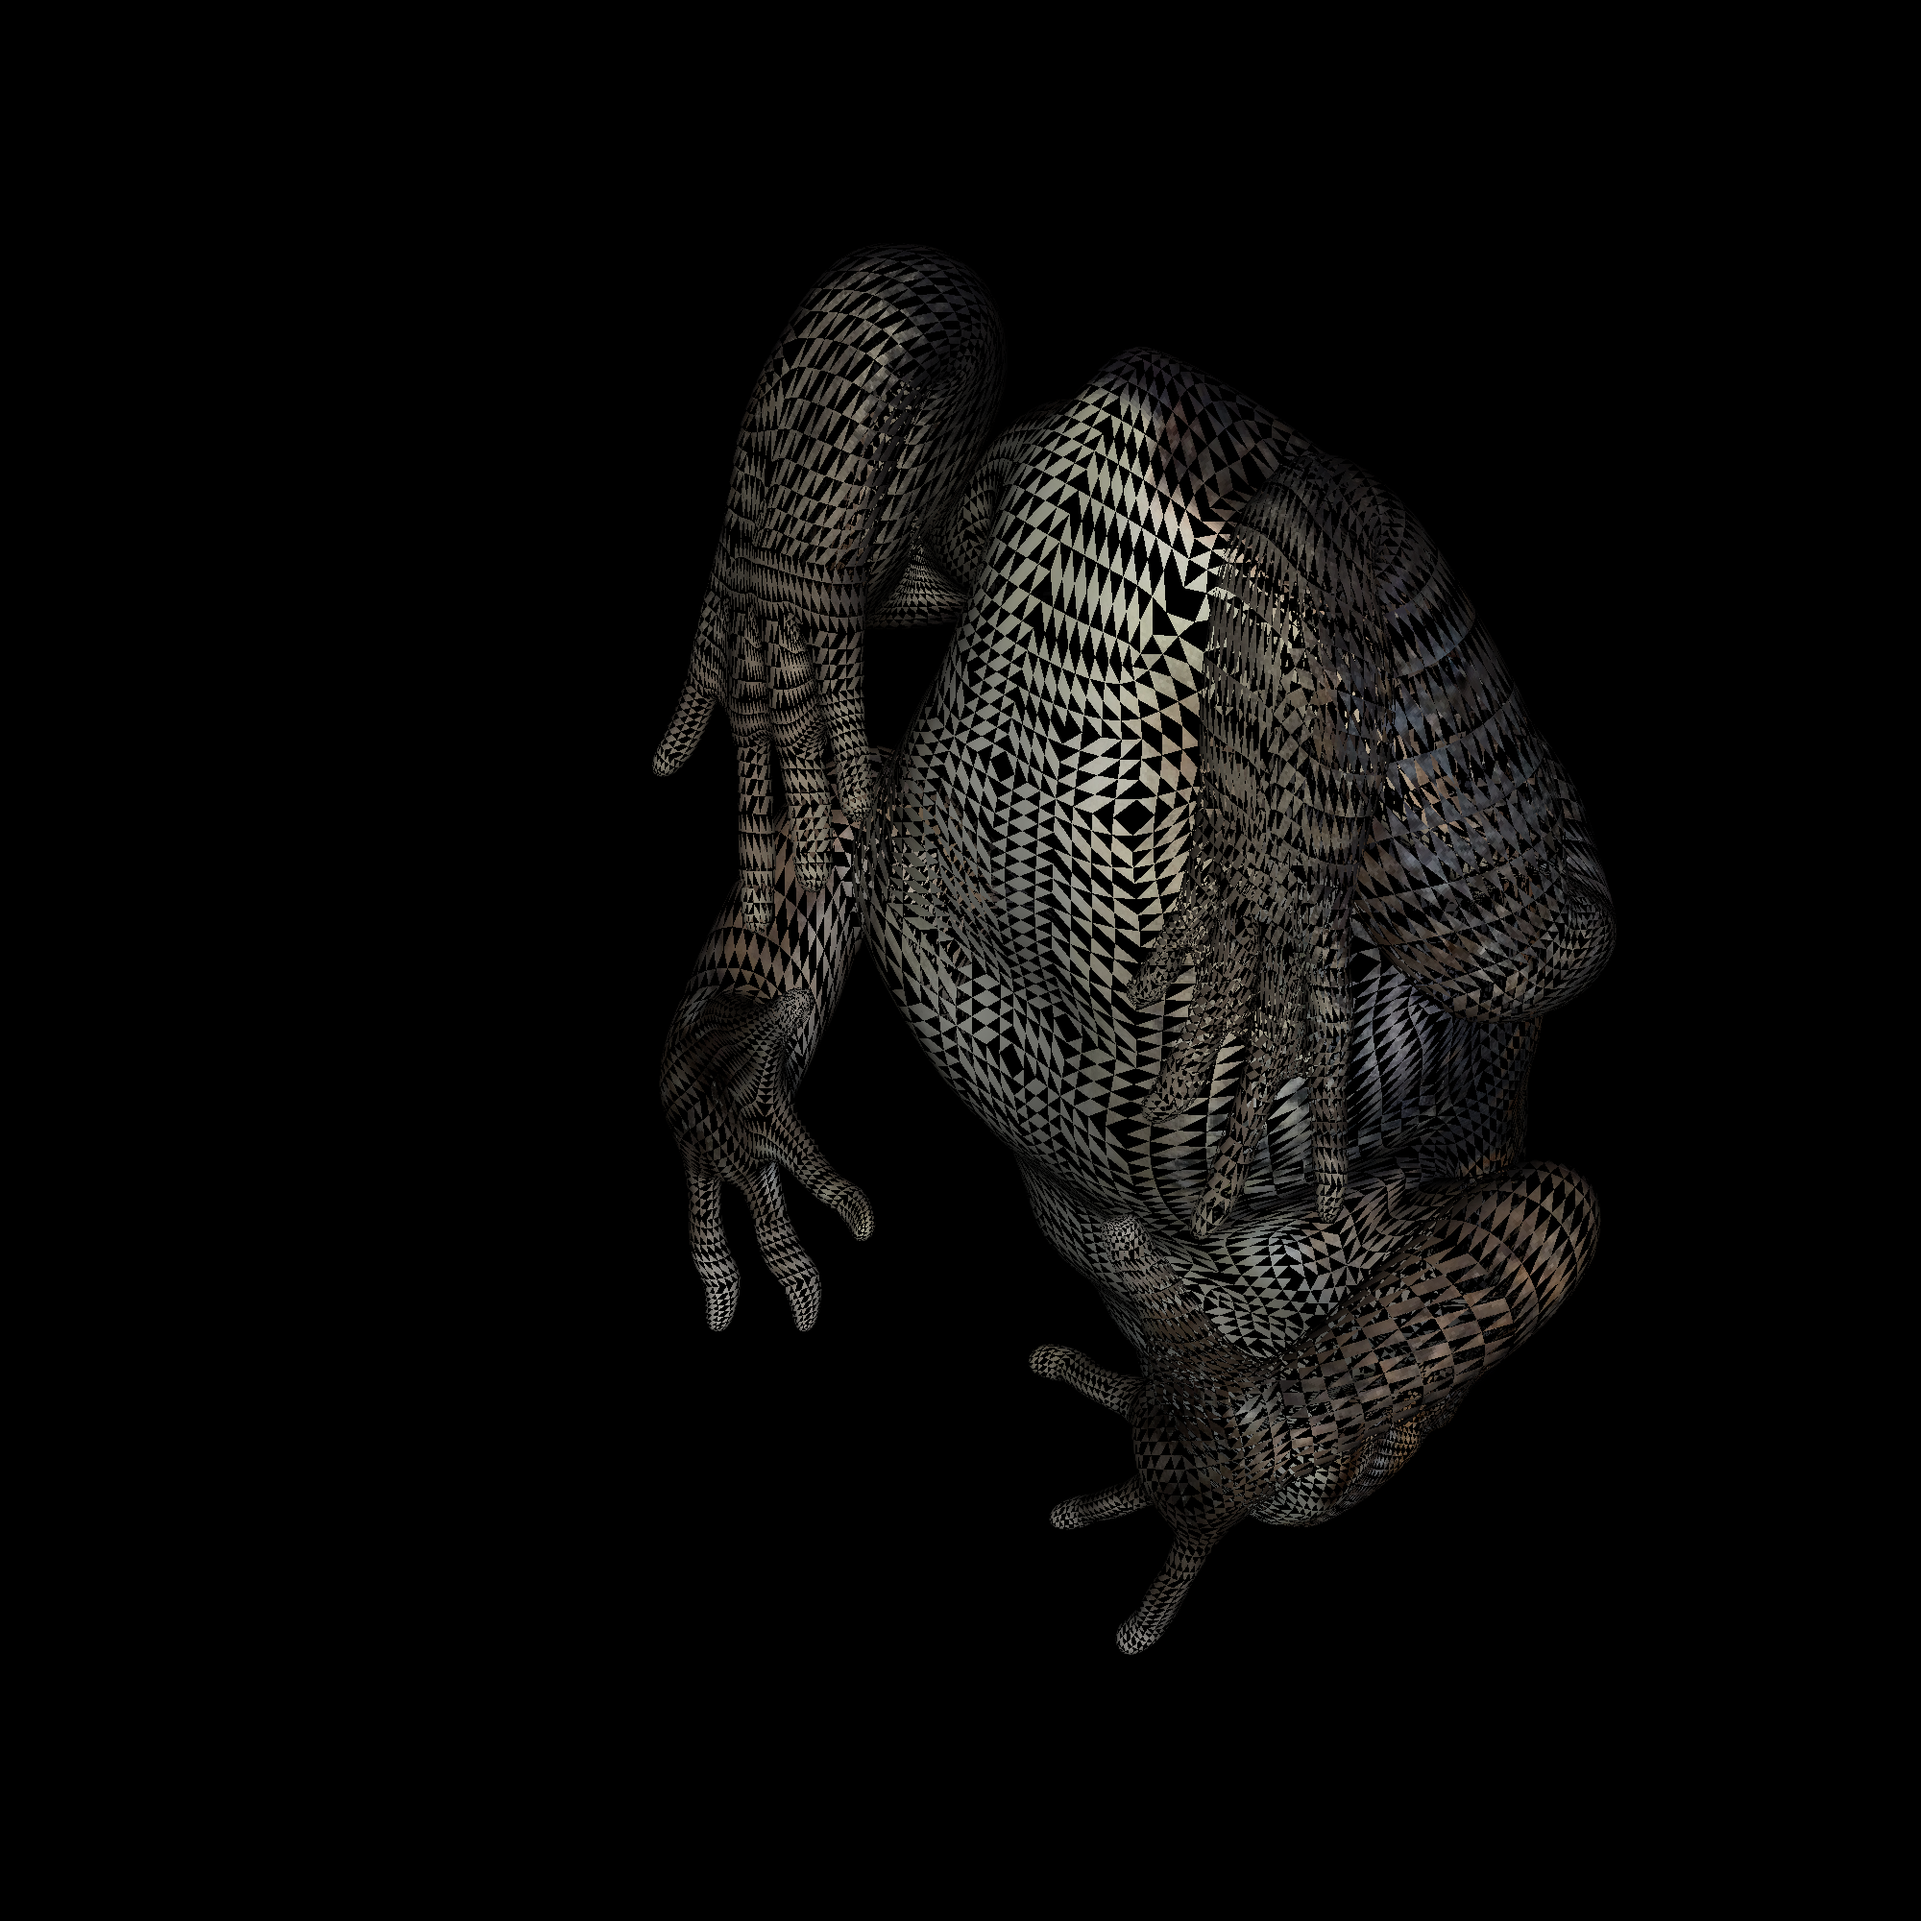
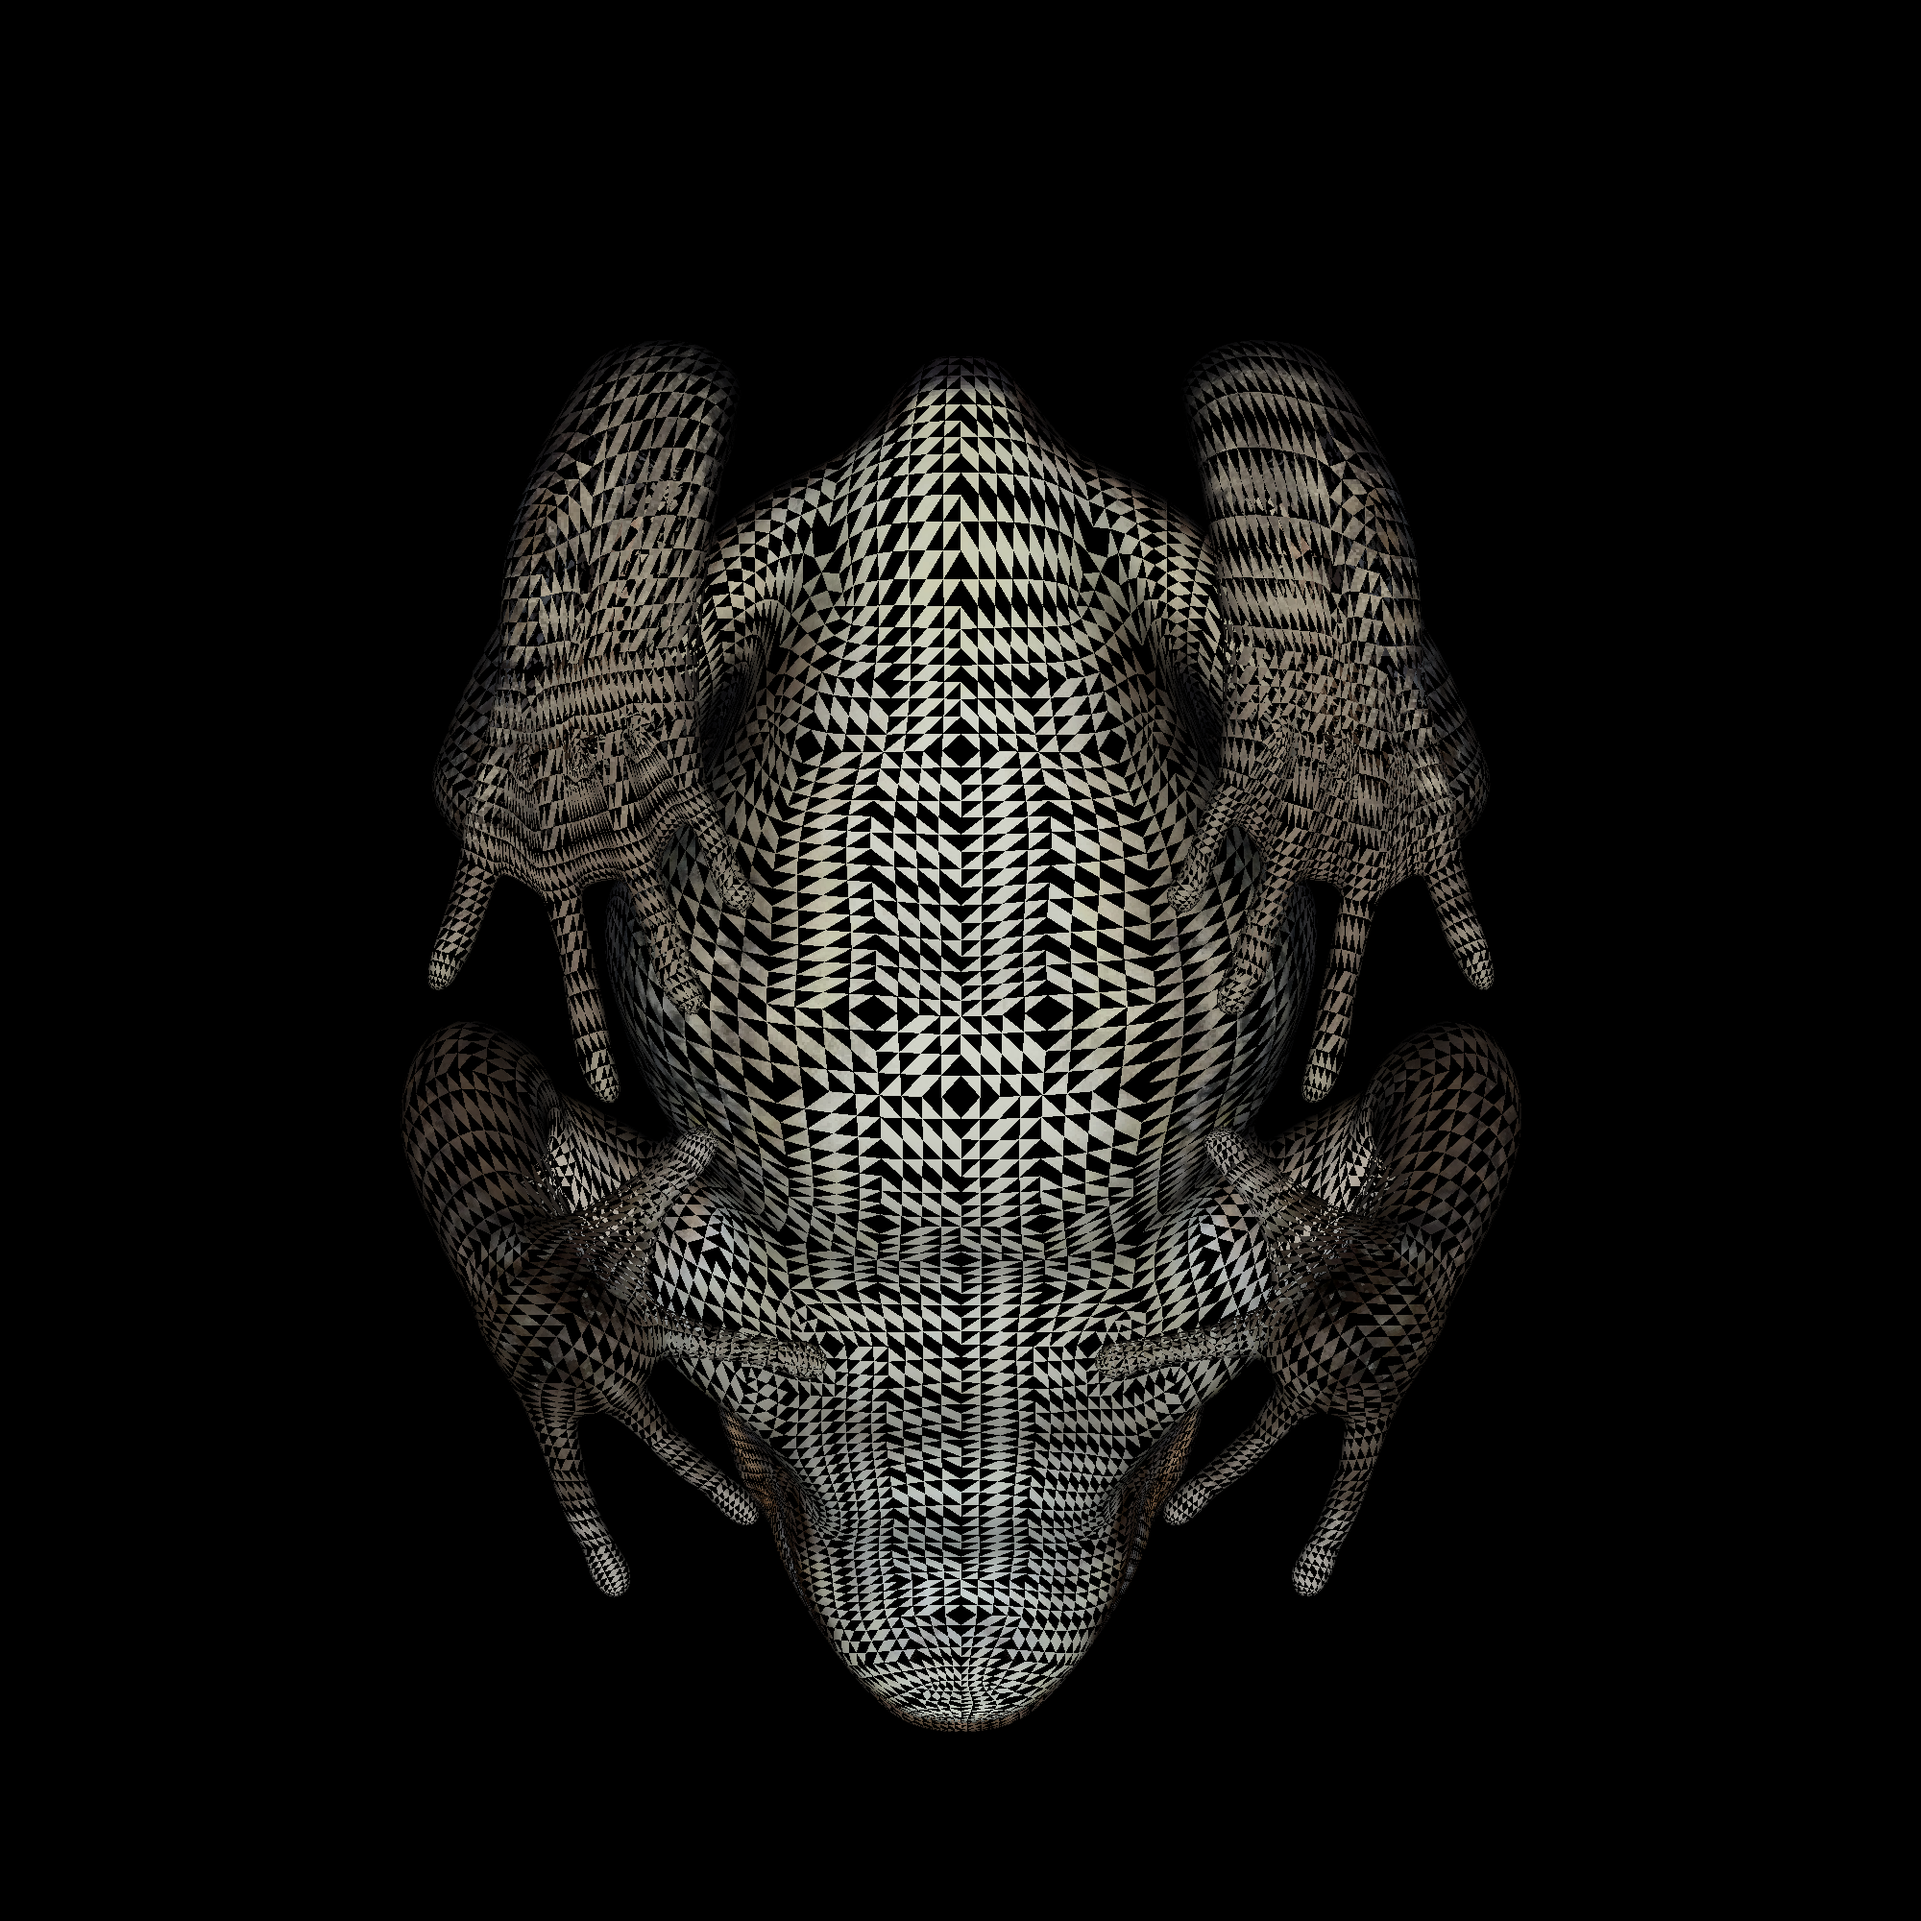
with test

Changed region(s): [[0.186, 0.124, 0.837, 0.899], [0.31, 0.806, 0.341, 0.837]]

diff --git a/lab5_kg/T2.py b/lab5_kg/T2.py
@@ -3,15 +3,15 @@ import math
 from PIL import Image, ImageOps
 import time
 
-IMAGE_WIDTH = 3000
-IMAGE_HEIGHT = 3000
+IMAGE_WIDTH = 4000
+IMAGE_HEIGHT = 4000
 AX = 5000  
 AY = 5000 
 U0 = IMAGE_WIDTH // 2  
 V0 = IMAGE_HEIGHT // 2  
 
 def render_model(model_path, texture_path=None, 
-                 a=0, b=0, g=0, t_x=0, t_y=0, t_z=0.2,
+                 a=0, b=0, g=0,  t_x=0.005,  t_y = -0.04, t_z =  0.2,
                  scale_x=1.0, scale_y=1.0, scale_z=1.0,
                  shift_x=0.0, shift_y=0.0, shift_z=0.0,
                  use_quaternion=False, q=None,
@@ -266,41 +266,29 @@ if __name__ == "__main__":
     start_time = time.time()
     print("Начало обработки...")
     
-    print("Рендеринг 1 модели...")
+    print("Рендеринг  модели 1...")
+    img_mat, z_buff = render_model(
+        model_path="mod.obj",
+        texture_path="bunny-atlas.jpg",
+        use_quaternion=True,
+        q=[0.9659, 0, 0.2588, 0],
+
+        #scale_x=1.5, scale_y=1.5, scale_z=1.5,  
+        shift_x=-0.1,  
+    )
+    
+    print("Рендеринг  модели 2...")
     img_mat, z_buff = render_model(
         model_path="mod.obj",
         #texture_path="bunny-atlas.jpg",
-        a=20, b=50, g=10,
-        t_x=0, t_y=0, t_z=0.2,
-        scale_x=1.5, scale_y=1.5, scale_z=1.5,  
-        shift_x=0.1, shift_y=-0.1, shift_z=0.0   
-    )
-    
-    print("Рендеринг 2 модели...")
-    img_mat, z_buff = render_model(
-        model_path="mod1.obj",
-        #texture_path="bunny-atlas.jpg",
-        a=-30, b=150, g=50,
-        t_x=-0.01, t_y=0.03, t_z=10,
-        scale_x=0.8, scale_y=0.8, scale_z=0.8,  
-        shift_x=0.0, shift_y=0.2, shift_z=0.1,   
-        img_mat=img_mat,
-        z_buff=z_buff
-    )
-    
-    print("Рендеринг 3 модели...")
-    img_mat, z_buff = render_model(
-        model_path="mod1.obj",
-        texture_path="12268_banjofrog_diffuse.jpg",
-        t_x=-0.01, t_y=0.03, t_z=10,
-        scale_x=1, scale_y=1, scale_z=1,  
-        shift_x=0.1, shift_y=3, shift_z=0.1,   
+        #scale_x=1.5, scale_y=1.5, scale_z=1.5,  
+        shift_x=0.1,    
         img_mat=img_mat,
         z_buff=z_buff
     )
 
     # Сохранение результата
-    save_image(img_mat, 'result.png')
+    save_image(img_mat, 'result2.png')
     
     end_time = time.time()
     print(f"Время выполнения: {end_time - start_time:.2f} секунд")

diff --git a/lab5_kg/T1.py b/lab5_kg/T1.py
@@ -11,7 +11,7 @@ U0 = IMAGE_WIDTH // 2
 V0 = IMAGE_HEIGHT // 2  
 
 def render_model(model_path, texture_path=None, 
-                 a=0, b=0, g=0, t_x=0, t_y=0, t_z=0.2,
+                 a=0, b=0, g=0, t_x=0.005,  t_y = -0.04, t_z =  0.2 ,
                  scale_x=1.0, scale_y=1.0, scale_z=1.0,
                  shift_x=0.0, shift_y=0.0, shift_z=0.0,
                  use_quaternion=False, q=None,
@@ -270,37 +270,26 @@ if __name__ == "__main__":
     img_mat, z_buff = render_model(
         model_path="mod.obj",
         #texture_path="bunny-atlas.jpg",
-        a=20, b=50, g=10,
-        t_x=0, t_y=0, t_z=0.2,
-        scale_x=1.5, scale_y=1.5, scale_z=1.5,  
-        shift_x=0.1, shift_y=-0.1, shift_z=0.0   
+        #a=0, b=0, g=0,
+        #t_x=0, t_y=0, t_z=0.2,
+        #scale_x=1.5, scale_y=1.5, scale_z=1.5,  
+        #shift_x=0.1, shift_y=-0.1, shift_z=0.0   
     )
     
     print("Рендеринг 2 модели...")
     img_mat, z_buff = render_model(
-        model_path="mod1.obj",
-        #texture_path="bunny-atlas.jpg",
-        a=-30, b=150, g=50,
-        t_x=-0.01, t_y=0.03, t_z=10,
-        scale_x=0.8, scale_y=0.8, scale_z=0.8,  
-        shift_x=0.0, shift_y=0.2, shift_z=0.1,   
-        img_mat=img_mat,
-        z_buff=z_buff
-    )
-    
-    print("Рендеринг 3 модели...")
-    img_mat, z_buff = render_model(
-        model_path="mod1.obj",
-        texture_path="12268_banjofrog_diffuse.jpg",
-        t_x=-0.01, t_y=0.03, t_z=10,
-        scale_x=1, scale_y=1, scale_z=1,  
-        shift_x=0.1, shift_y=3, shift_z=0.1,   
+        model_path="model_1.obj",
+        texture_path="bunny-atlas.jpg",
+        a=120, b=50, g=10,
+        t_x=0, t_y=0, t_z=0.2,
+        scale_x=1.5, scale_y=1.5, scale_z=1.5,  
+        shift_x=0.1, shift_y=-0.1, shift_z=0.0,   
         img_mat=img_mat,
         z_buff=z_buff
     )
 
     # Сохранение результата
-    save_image(img_mat, 'result.png')
+    save_image(img_mat, 'result1.png')
     
     end_time = time.time()
     print(f"Время выполнения: {end_time - start_time:.2f} секунд")

diff --git a/lab5_kg/for_test.py b/lab5_kg/for_test.py
@@ -7,7 +7,7 @@ start_time = time.time()
 print("Начало обработки модели...")
 
 print("Шаг 1: Загрузка модели и текстуры...")
-model = open("12268_banjofrog_v1_L3.obj")
+model = open("mod1.obj")
 texture_img = Image.open("12268_banjofrog_diffuse.jpg")
 texture_img = ImageOps.flip(texture_img)
 
@@ -109,9 +109,9 @@ for line in model:
 
 print(f"Шаг 3: OBJ загружен: вершин={len(V)}, текстурных координат={len(VT)}, полигонов={len(F)}")
 
-a = math.radians(20)
-b = math.radians(50)
-g = math.radians(10)
+a = math.radians(0)
+b = math.radians(0)
+g = math.radians(0)
 t_x, t_y, t_z = 0, 0, 10
 V_T = transform_vertices(V, a, b, g, t_x, t_y, t_z)
 print("Шаг 4: Трансформация вершин завершена")
